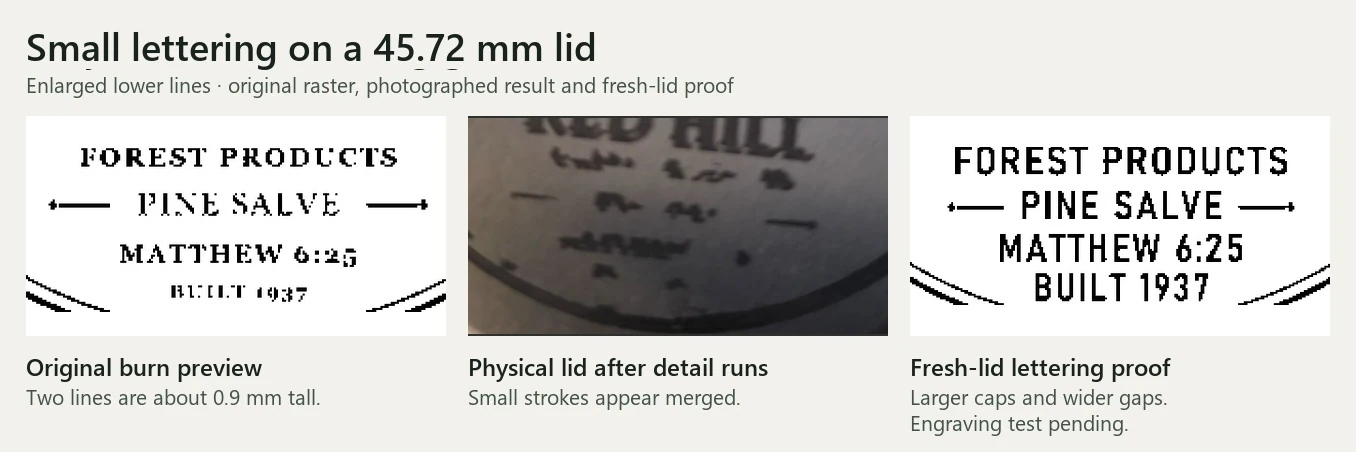
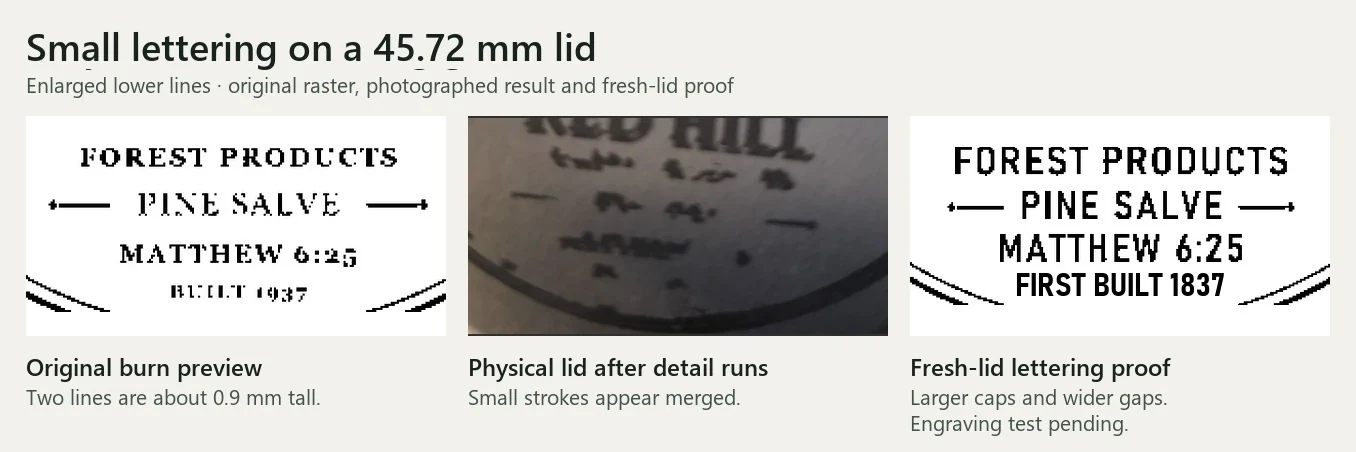
Put Red Hill first in the project list; replace the label photo; fix the proof year
Adds a Red Hill card at the top of the physical projects. Swaps the salve badge
photo (it showed unverified label claims) for the full-verse chapel lid in the
page header, share image and workshop tile. The lettering proof now reads
FIRST BUILT 1837, matching its caption.

Changed region(s): [[0.7434, 0.5885, 0.8982, 0.6814]]

diff --git a/index.html b/index.html
@@ -98,6 +98,16 @@
 
       <section class="grid" aria-label="Physical projects">
         <article class="card" data-cat="fabrication" data-project>
+          <a class="thumb" href="/red-hill/" tabindex="-1" aria-hidden="true"><img src="/assets/shots/red-hill.webp" alt="" width="800" height="500" loading="lazy" /><span class="badge dev">In development</span></a>
+          <div class="body">
+            <div class="meta"><span>Fabrication</span></div>
+            <h3>Red Hill Tin Lid Engraving</h3>
+            <p>Laser-engraved packaging prototypes on reflective tin: chapel and full-verse lids, burn previews and small-lettering tests.</p>
+            <ul class="tags"><li>Laser engraving</li><li>Tin</li><li>Prototype testing</li></ul>
+            <div class="links"><a class="btn primary" href="/red-hill/">Read case study</a></div>
+          </div>
+        </article>
+        <article class="card" data-cat="fabrication" data-project>
           <a class="thumb" href="/assets/shots/handguard-fitted.webp" tabindex="-1" aria-hidden="true"><img src="/assets/shots/handguard.webp" alt="" width="800" height="500" loading="lazy" /><span class="badge">Prototype</span></a>
           <div class="body">
             <div class="meta"><span>Fabrication</span></div>
@@ -291,7 +301,7 @@
         <h2 id="workshop-title">From the workshop</h2>
         <p class="sub">Laser engraving on wood and metal, experiments with small lettering on tin, and a custom part from design to fitting.</p>
         <div class="strip">
-          <figure><a href="/red-hill/"><img src="/assets/workshop/red-hill-lid-thumb.webp" alt="Read about the Red Hill tin lid engraving tests" width="800" height="600" loading="lazy" /></a><figcaption><strong>Red Hill tin lid prototype</strong>Engraved salve badge on reflective tin. Open the case study for the chapel trials and lettering proof.</figcaption></figure>
+          <figure><a href="/red-hill/"><img src="/assets/workshop/red-hill-thumb.webp" alt="Read about the Red Hill tin lid engraving tests" width="800" height="600" loading="lazy" /></a><figcaption><strong>Red Hill tin lid prototype</strong>Chapel and full-verse lids on reflective tin. Open the case study for the trials and lettering proof.</figcaption></figure>
           <figure><a href="/assets/workshop/north-pole-plank.webp"><img src="/assets/workshop/north-pole-plank.webp" alt="Laser-engraved North Pole scene on a pine plank" width="800" height="600" loading="lazy" /></a><figcaption><strong>North Pole plank</strong>Pine, layered shading, 7 × 6 in</figcaption></figure>
           <figure><a href="/assets/workshop/dragon-test.webp"><img src="/assets/workshop/dragon-test.webp" alt="Dragon engraved on pine with interlaced shrinking layers" width="800" height="600" loading="lazy" /></a><figcaption><strong>Dragon test 12</strong>Pine, interlaced shrinking layers</figcaption></figure>
           <figure><a href="/assets/workshop/goku-vegeta-lid.webp"><img src="/assets/workshop/goku-vegeta-lid.webp" alt="Goku and Vegeta line art etched on a jar lid" width="800" height="600" loading="lazy" /></a><figcaption><strong>Goku + Vegeta lid</strong>Coated steel, vector lines</figcaption></figure>

diff --git a/red-hill/index.html b/red-hill/index.html
@@ -12,8 +12,8 @@
     <meta property="og:title" content="Red Hill tin lid engraving · HASK workshop" />
     <meta property="og:description" content="Prototype engraving on reflective tin, from the burn preview to the physical lid." />
     <meta property="og:url" content="https://tboy450.github.io/red-hill/" />
-    <meta property="og:image" content="https://tboy450.github.io/assets/workshop/red-hill-lid.webp" />
-    <meta property="og:image:alt" content="Photograph of the laser-engraved Red Hill Pine Resin Salve tin lid" />
+    <meta property="og:image" content="https://tboy450.github.io/assets/workshop/red-hill-verse-pass-1.webp" />
+    <meta property="og:image:alt" content="Laser-engraved Red Hill full-verse tin lid with a chapel illustration" />
     <link rel="stylesheet" href="../assets/site.css?v=solar-mobile-20261105" />
     <style>
       .case-study { max-width: 1020px; }
@@ -56,8 +56,8 @@
           <ul class="tags"><li>Reflective tin</li><li>Laser engraving</li><li>Prototype testing</li></ul>
         </div>
         <figure>
-          <a href="../assets/workshop/red-hill-lid.webp"><img src="../assets/workshop/red-hill-lid.webp" width="920" height="920" alt="Photographed Red Hill Pine Resin Salve badge engraved on a reflective round tin lid" /></a>
-          <figcaption>Physical salve badge trial. Select the photo for a closer look.</figcaption>
+          <a href="../assets/workshop/red-hill-verse-pass-1.webp"><img src="../assets/workshop/red-hill-verse-pass-1.webp" width="1200" height="900" alt="Laser-engraved Red Hill full-verse tin lid with a chapel illustration" /></a>
+          <figcaption>Full-verse chapel lid after its first pass. Select the photo for a closer look.</figcaption>
         </figure>
       </section>
 

diff --git a/CHANGELOG.md b/CHANGELOG.md
@@ -3,6 +3,15 @@
 Newest first. Each entry is signed with who made it, so the next person or assistant
 (Claude, ChatGPT, Codex or a human) can see what was done and why.
 
+## 2026-11-10: Publish Red Hill near the top; fix two photos
+- **Signed:** Claude Code (Claude Opus 5.5)
+- **What changed:**
+  - Added a Red Hill Tin Lid Engraving card as the first project card, linking to the case study.
+  - Replaced the salve badge photo (page header, share image, workshop tile) with the full-verse chapel lid. The
+    badge photo showed the label's product claims, which aren't verified. Removed `red-hill-lid.webp` and its thumbnail.
+  - The fresh-lid lettering proof now reads "FIRST BUILT 1837", matching its caption and the corrected artwork.
+- **Why:** The owner asked for Red Hill to go up near the top now, with the design polish to follow.
+
 ## 2026-11-10: Update Red Hill samples and software findings
 
 - **Signed:** Codex (OpenAI)
